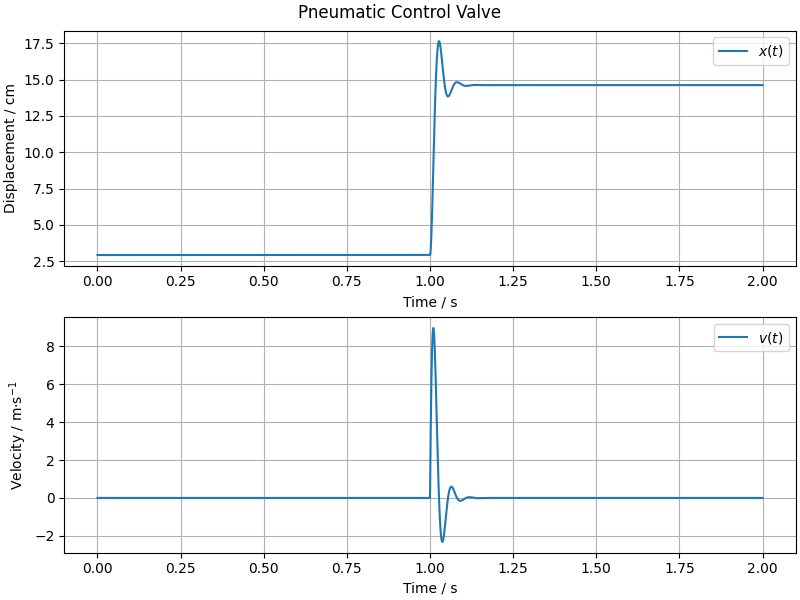
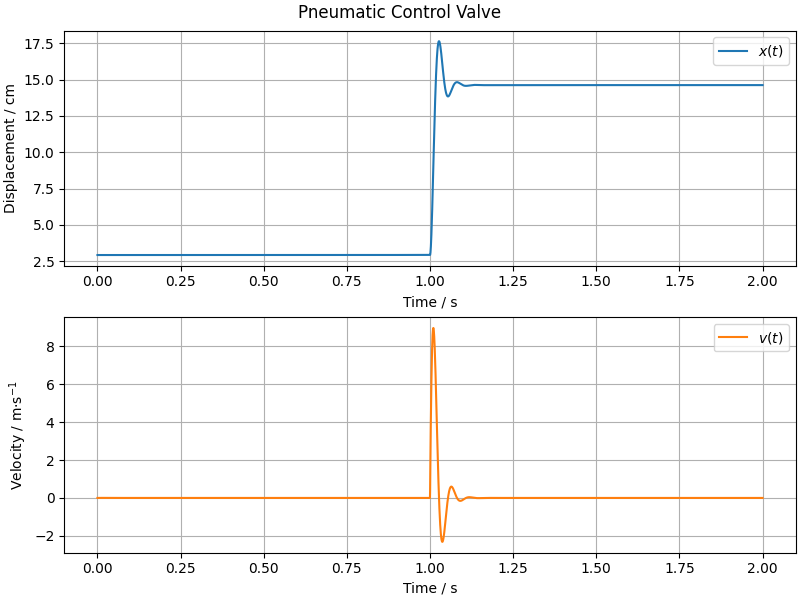
Change velocity control valve color on simulation graph

Changed region(s): [[0.125, 0.54, 0.9375, 0.9], [0.9062, 0.54, 0.9375, 0.57]]

diff --git a/models/mechanical/pneumatic-control-valve/sim_scipy.py b/models/mechanical/pneumatic-control-valve/sim_scipy.py
@@ -83,7 +83,7 @@ axs[0].grid(True)
 axs[0].legend()
 
 # Velocity
-axs[1].plot(sol.t, v, label="$v(t)$")
+axs[1].plot(sol.t, v, label="$v(t)$", color="tab:orange")
 axs[1].set_xlabel("Time / s")
 axs[1].set_ylabel("Velocity / m$\\cdot$s$^{-1}$")
 axs[1].grid(True)
